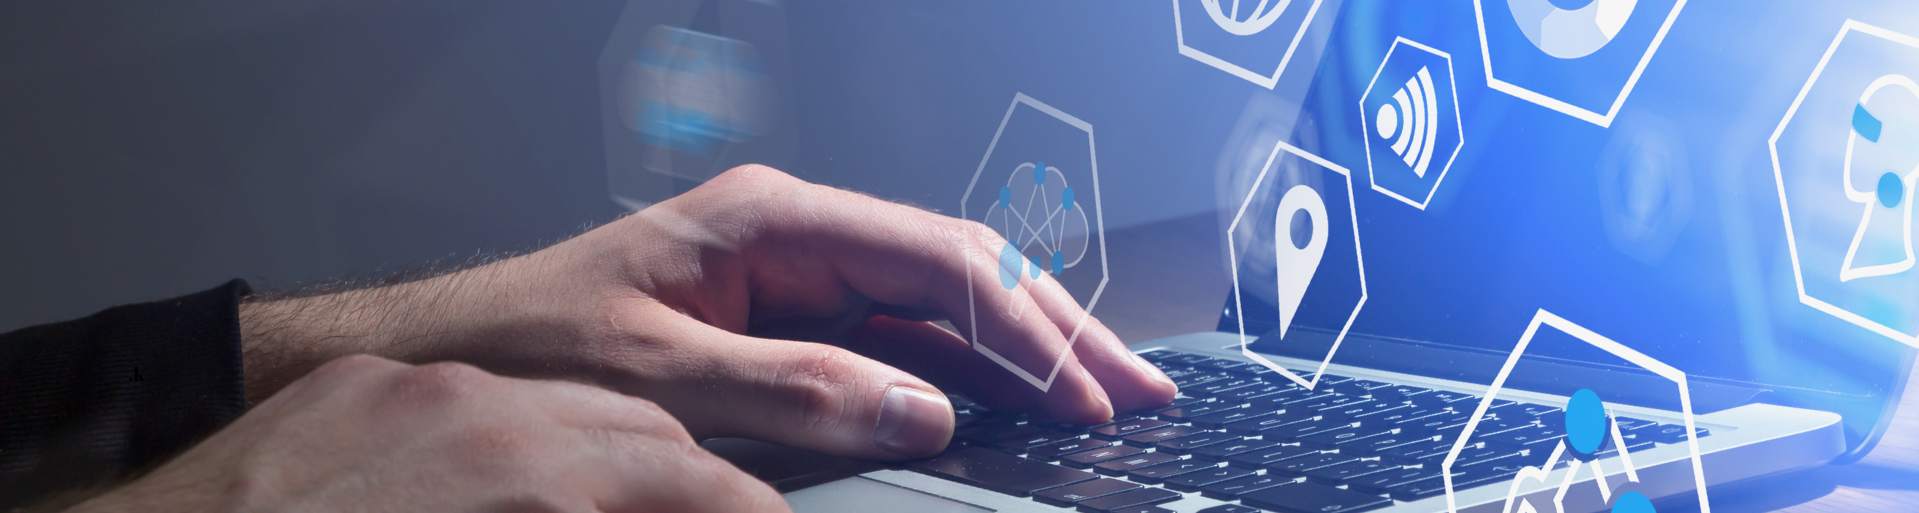
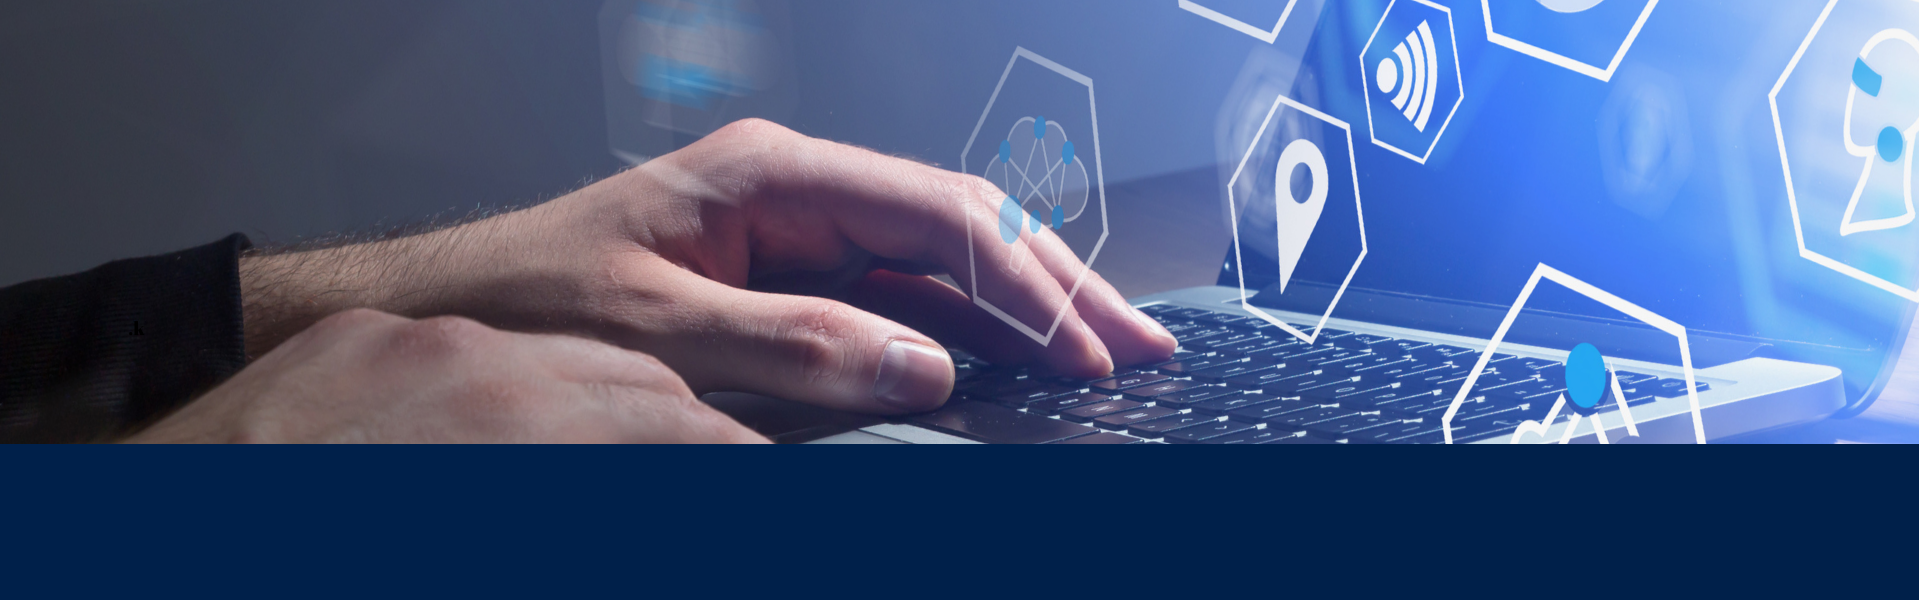
.

diff --git a/assets/css/style.css b/assets/css/style.css
@@ -4288,7 +4288,7 @@ form.search-box .input-form .world-form i {
 }
 
 .footer-bottom-area .footer-copy-right p {
-    color: #444862;
+    color: #00204A;
     font-weight: 300;
     font-size: 15px;
     line-height: 2;
@@ -4296,11 +4296,11 @@ form.search-box .input-form .world-form i {
 }
 
 .footer-bottom-area .footer-copy-right p i {
-    color: #3363c2
+    color: #00204A
 }
 
 .footer-bottom-area .footer-copy-right p a {
-    color: #3f4351
+    color: #00204A
 }
 
 .footer-social>a {
